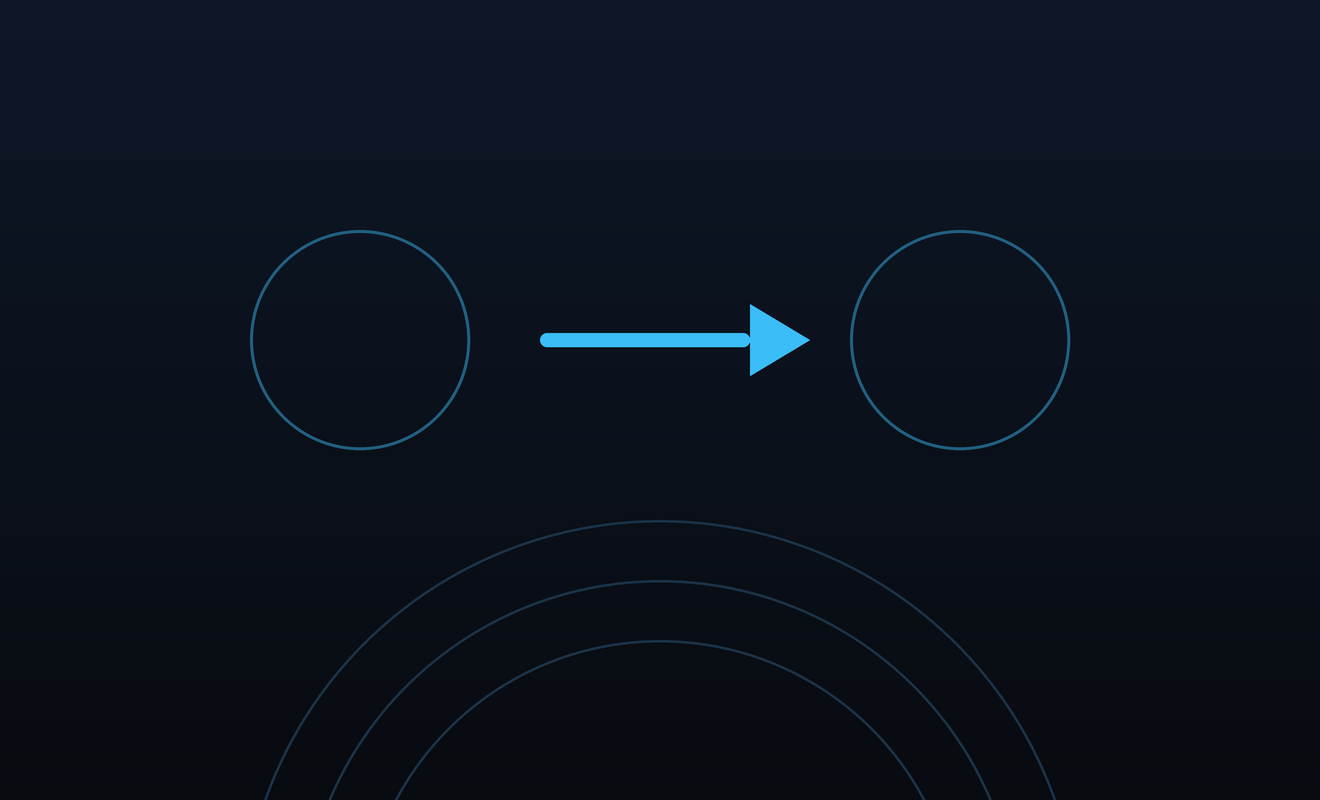
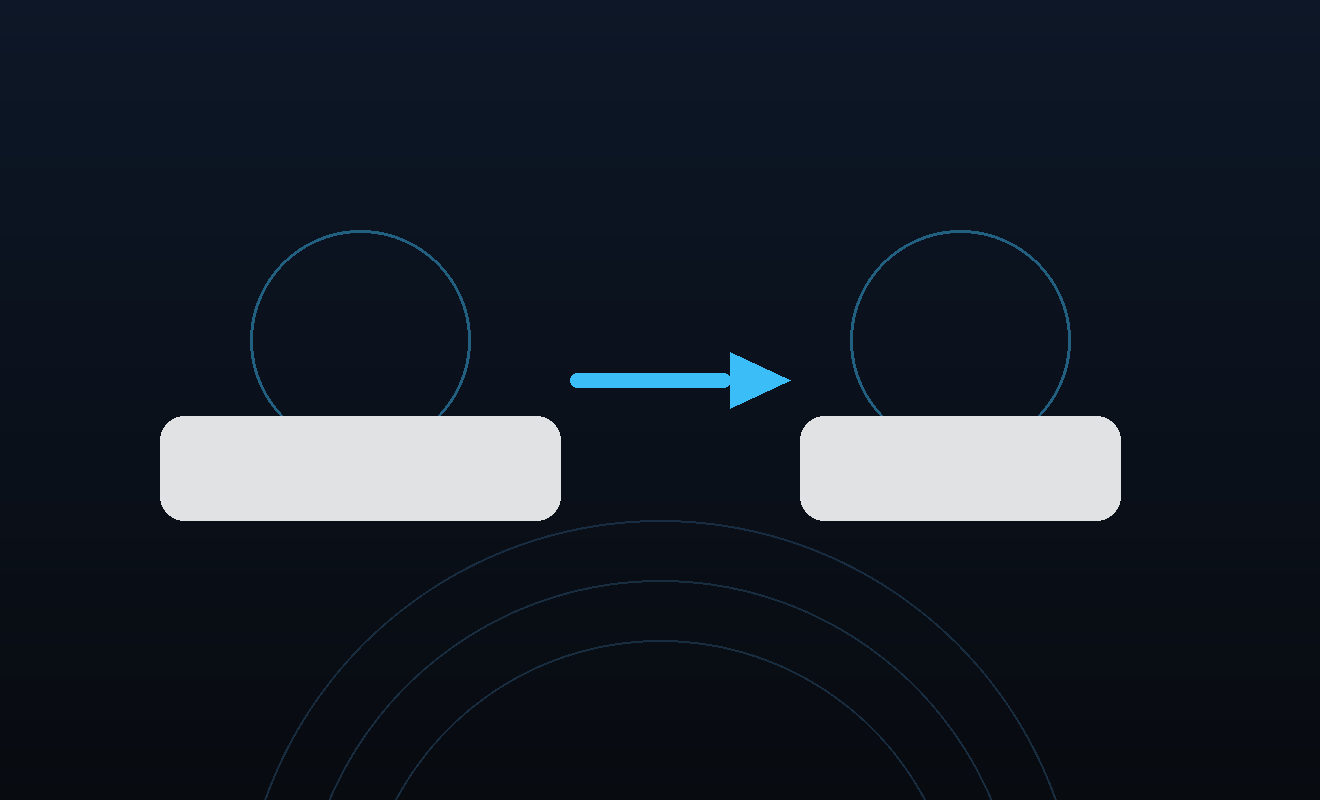
Assets: DMG label pills for legible Finder names
- White 88% pills behind the app and Applications label zones
- Arrow moved down and shortened so it stays visible between icons
- SVG master and 1320x800 PNG re-rendered, docs updated

Changed region(s): [[0.1242, 0.5, 0.4348, 0.6562], [0.5902, 0.5, 0.8697, 0.6562], [0.4038, 0.375, 0.6212, 0.5]]

diff --git a/docs/RELEASE.md b/docs/RELEASE.md
@@ -240,7 +240,10 @@ Finder double-click then opens the capture in the viewer. No context-menu or
 The `.dmg` Finder window is 660x400pt with product identity:
 `assets/macos/dmg-background.png` (1320x800px, i.e. @2x of the 660x400pt
 window, mastered from vectorial `assets/macos/dmg-background.svg`: dark
-gradient echoing `assets/icon/icon.svg`, two drop-zone rings, sky arrow).
+gradient echoing `assets/icon/icon.svg`, two drop-zone rings, sky arrow
+between the rings above the label pills, and two near-white label pills
+behind the Finder icon labels — Finder draws the labels in black, so the
+pills keep them legible on the dark background).
 Finder scales the PNG down to the smaller content rect inside the 660x400pt
 outer frame (the titlebar is not covered by the background), so shipping the
 @2x bitmap keeps it sharp on Retina while the 1x layout coords (icon slots,
@@ -518,7 +521,8 @@ On Windows, if SmartScreen blocks the installer: **More info → Run anyway**.
   eyeballable on a mounted image from a macOS CI run: check that the window
   is 660x400, the background fills it without scaling artifacts, and the
   `.app` icon plus the `/Applications` symlink sit centred on the two rings
-  with the arrow between them. The `CI=false` override is the only way to get
+  with the arrow between them above the label pills and each black label
+  on its pill. The `CI=false` override is the only way to get
   the background on a CI-built `.dmg`, and it re-enables create-dmg's Finder
   AppleScript: GitHub-hosted macOS runners normally do have an Aqua session,
   but if Finder never writes `.DS_Store` the packaging step hangs until its
